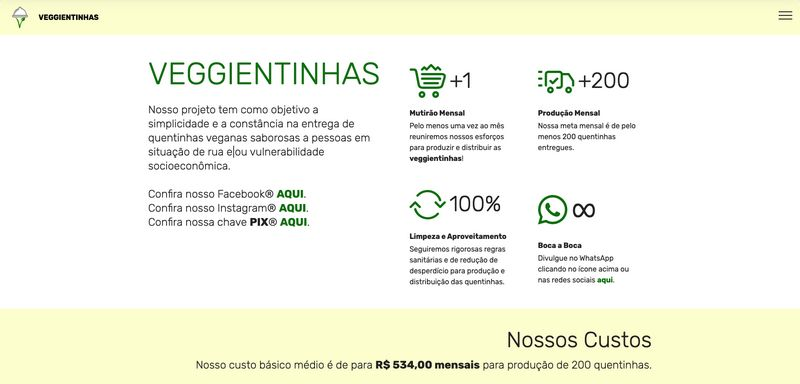
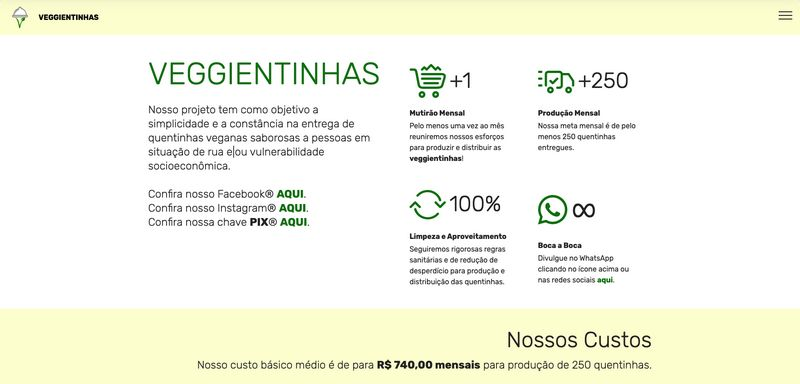
Add files via upload

Changed region(s): [[0.2188, 0.9375, 0.75, 0.9688], [0.75, 0.1875, 0.8125, 0.25], [0.7188, 0.3438, 0.75, 0.375]]

diff --git a/index.html b/index.html
@@ -69,7 +69,7 @@
     </nav>
 </section>
 
-<section class="engine"><a href="https://mobirise.info/a">online web builder</a></section><section class="counters2 counters cid-s34u2Y3aiS" id="counters2-2">
+<section class="engine"><a href="https://mobirise.info/o">portfolio site templates</a></section><section class="counters2 counters cid-s34u2Y3aiS" id="counters2-2">
 
     
 
@@ -101,13 +101,13 @@
                         <div class="panel-item p-3">
                             <div class="card-img pb-3">
                                 <a href="index.html#services3-3"><span class="mbr-iconfont pr-2 mbrib-delivery" style="color: rgb(5, 112, 3); fill: rgb(5, 112, 3);"></span></a>
-                                <h3 class="count py-3 mbr-fonts-style display-2">+200</h3>
+                                <h3 class="count py-3 mbr-fonts-style display-2">+250</h3>
                             </div>
                             <div class="card-text">
                                 <h4 class="mbr-content-title mbr-bold mbr-fonts-style display-7">
                                     Produção Mensal</h4>
                                 <p class="mbr-content-text mbr-fonts-style display-7">
-                                    Nossa meta mensal é de pelo menos 200 quentinhas entregues.</p>
+                                    Nossa meta mensal é de pelo menos 250 quentinhas entregues.</p>
                             </div>
                         </div>
                     </div>
@@ -157,7 +157,7 @@
             <div class="title pb-5 col-12">
                 <h2 class="align-left mbr-fonts-style display-2">
                     Nossos Custos</h2>
-                <h3 class="mbr-section-subtitle mbr-light mbr-fonts-style pt-3 m-0 display-5">Nosso custo básico médio é de para&nbsp;<strong>R$ 534,00 mensais</strong> para produção de 200 quentinhas.</h3>
+                <h3 class="mbr-section-subtitle mbr-light mbr-fonts-style pt-3 m-0 display-5">Nosso custo básico médio é de para&nbsp;<strong>R$ 740,00 mensais</strong> para produção de 250 quentinhas.</h3>
             </div>
             <!--Card-1-->
             <div class="card px-3 col-12 col-md-6">
@@ -165,10 +165,10 @@
                     <div class="card-box">
                         <div class="top-line pb-1">
                             <h4 class="card-title mbr-fonts-style display-5">Embalagens + Garfos<br></h4>
-                            <p class="mbr-text card-title cost mbr-fonts-style m-0 display-5">R$100</p>
+                            <p class="mbr-text card-title cost mbr-fonts-style m-0 display-5">R$230</p>
                         </div>
                         <div class="bottom-line">
-                            <p class="mbr-text mbr-fonts-style display-7">200 garfos de madeira reflorestável e 200 quentinhas de alumínio (750ml) com tampas de papelão</p>
+                            <p class="mbr-text mbr-fonts-style display-7">250 garfos de madeira reflorestável e 250 quentinhas de alumínio (750ml) com tampas de papelão</p>
                         </div>
                     </div>
                 </div>
@@ -195,7 +195,7 @@
                         <div class="top-line pb-3">
                             <h4 class="card-title mbr-fonts-style display-5">
                                 Arroz</h4>
-                            <p class="mbr-text card-title cost mbr-fonts-style m-0 display-5">R$70</p>
+                            <p class="mbr-text card-title cost mbr-fonts-style m-0 display-5">R$50</p>
                         </div>
                         <div class="bottom-line">
                             <p class="mbr-text mbr-fonts-style display-7">10 kg mensais</p>
@@ -210,10 +210,10 @@
                         <div class="top-line pb-3">
                             <h4 class="card-title mbr-fonts-style display-5">
                                 Proteína (soja | leguminosas)</h4>
-                            <p class="mbr-text card-title cost mbr-fonts-style m-0 display-5">R$40</p>
+                            <p class="mbr-text card-title cost mbr-fonts-style m-0 display-5">R$140</p>
                         </div>
                         <div class="bottom-line">
-                            <p class="mbr-text mbr-fonts-style display-7">06 kg mensais</p>
+                            <p class="mbr-text mbr-fonts-style display-7">08 kg mensais</p>
                         </div>
                     </div>
                 </div>
@@ -239,10 +239,10 @@
                     <div class="card-box">
                         <div class="top-line pb-3">
                             <h4 class="card-title mbr-fonts-style display-5">Couve | Salada | Vinagrete</h4>
-                            <p class="mbr-text card-title cost mbr-fonts-style m-0 display-5">R$36</p>
+                            <p class="mbr-text card-title cost mbr-fonts-style m-0 display-5">R$40</p>
                         </div>
                         <div class="bottom-line">
-                            <p class="mbr-text mbr-fonts-style display-7">04 | 06 kg mensais</p>
+                            <p class="mbr-text mbr-fonts-style display-7">06 | 10 kg mensais</p>
                         </div>
                     </div>
                 </div>
@@ -255,10 +255,10 @@
                             <h4 class="card-title mbr-fonts-style display-5">
                                 Água</h4>
                             <p class="mbr-text card-title cost mbr-fonts-style m-0 display-5">
-                                $168</p>
+                                $160</p>
                         </div>
                         <div class="bottom-line">
-                            <p class="mbr-text mbr-fonts-style display-7">200 copos ou 100 garrafas mensais</p>
+                            <p class="mbr-text mbr-fonts-style display-7">250 copos ou 250 garrafas mensais</p>
                         </div>
                     </div>
                 </div>
@@ -275,7 +275,7 @@
                         </div>
                         <div class="bottom-line">
                             <p class="mbr-text mbr-fonts-style display-7">
-                                08 kg mensais</p>
+                                09 kg mensais</p>
                         </div>
                     </div>
                 </div>
@@ -301,12 +301,12 @@
     <div class="container">
         <h2 class="mbr-section-title pb-3 align-center mbr-fonts-style display-2">Mutirões<br></h2>
 
-        <h3 class="mbr-section-subtitle mbr-fonts-style display-5"><strong>Próximo Mutirão de Veggientinhas | 27 de DEZEMBRO às 09h00 AM</strong></h3>
+        <h3 class="mbr-section-subtitle mbr-fonts-style display-5"><strong>Próximo Mutirão de Veggientinhas | 17 de JANEIRO às 09h00 AM</strong></h3>
 
         <div class="row pt-5 mt-5">
             <div class="col-md-6 text-elements">
-                <h4 class="section-content-title pb-3 align-left mbr-fonts-style display-5"><strong>Continue ajudando! Estamos arrecadando para o último mutirão de 2020!</strong><br></h4>
-                <p class="section-content-text align-left mbr-fonts-style display-7"><strong>PRÓXIMO MUTIRÃO:</strong><br><strong>DOMINGO, 27 de DEZEMBRO de 2020, ÀS 09h00 AM</strong><br><br>Para cada mutirão, precisamos de 08 a 12 pessoas na equipe, 40 a 50 kg de alimentos, 200 quentinhas de papelão e garfos feitos de <strong>madeira de reflorestamento</strong>. Isso tudo para organizar o preparo, cozinhar, montar as refeições e distribuir tudo.<br><br>Acompanhe nossos medidores mensais, sempre <strong>atualizados às segundas-feiras</strong>. Veja abaixo formas de nos ajudar a fechar nossa meta: contribuindo, doando recorrente e|ou compartilhando nossa página para todos os seus amigos. Obrigado!<br><br><strong>ACOMPANHE OS MARCADORES E NOS AJUDE A BATER A META</strong><br>Para saber mais sobre o mutirão passado, clique <a href="index.html#header7-2c"><strong>AQUI</strong></a>!<br><strong><br></strong><br></p>
+                <h4 class="section-content-title pb-3 align-left mbr-fonts-style display-5"><strong>Continue ajudando! Estamos arrecadando para o PRIMEIRO mutirão de 2021!</strong><br></h4>
+                <p class="section-content-text align-left mbr-fonts-style display-7"><strong>PRÓXIMO MUTIRÃO:</strong><br><strong>DOMINGO, 17 de JANEIRO de 2021, ÀS 09h00 AM</strong><br><br>Para cada mutirão, precisamos de 08 a 12 pessoas na equipe, 40 a 50 kg de alimentos, 250 quentinhas de <strong>papelão</strong> e garfos feitos de <strong>madeira de reflorestamento</strong>. Isso tudo para organizar o preparo, cozinhar, montar as refeições e distribuir tudo.<br><br>Acompanhe nossos medidores mensais, sempre <strong>atualizados às segundas-feiras</strong>. Veja abaixo formas de nos ajudar a fechar nossa meta: contribuindo, doando recorrente e|ou compartilhando nossa página para todos os seus amigos. Obrigado!<br><br><strong>ACOMPANHE OS MARCADORES E NOS AJUDE A BATER A META</strong><br>Para saber mais sobre o mutirão passado, clique <a href="index.html#header7-2c"><strong>AQUI</strong></a>!<br><strong><br></strong><br></p>
             </div>
             <div class="progress_elements col-md-6">
                 <div class="progress1 pb-5">
@@ -320,7 +320,7 @@
                             <span>%</span>
                         </div>
                     </div>
-                    <progress class="progress progress-primary " max="100" value="47">
+                    <progress class="progress progress-primary " max="100" value="24">
                     </progress>
                 </div>
                  
@@ -335,7 +335,7 @@
                         <span>%</span>
                     </div>
                     </div>
-                    <progress class="progress progress-primary" max="100" value="59">
+                    <progress class="progress progress-primary" max="100" value="79">
                     </progress>
                 </div>
                 
@@ -350,7 +350,7 @@
                         <span>%</span>
                     </div>
                     </div>
-                    <progress class="progress progress-primary" max="100" value="100">
+                    <progress class="progress progress-primary" max="100" value="85">
                     </progress>
                 </div>
                 
@@ -365,7 +365,7 @@
                         <span>%</span>
                     </div>
                     </div>
-                    <progress class="progress progress-primary" max="100" value="33">
+                    <progress class="progress progress-primary" max="100" value="69">
                     </progress>
                 </div>
             
@@ -442,7 +442,7 @@
                     <div class="plan-list align-center">
                         <ul class="list-group list-group-flush mbr-fonts-style display-7">
                             <li class="list-group-item">Você pode fazer uma doação espontânea, escolhendo a quantia desejada a ser doada, através do PIX.</li>
-                            <li class="list-group-item">Clique abaixo para ser redirecionado para a nossa chave PIX!</li>
+                            <li class="list-group-item">Clique abaixo para ser redirecionade para a nossa chave PIX!</li>
                         </ul>
                     </div>
                     <div class="mbr-section-btn text-center py-4 pb-5"><a href="doacoes.html" class="btn btn-primary display-4">CHAVE PIX</a></div>
@@ -463,7 +463,7 @@
                 <div class="plan-body">
                     <div class="plan-list align-center">
                         <ul class="list-group list-group-flush mbr-fonts-style display-7">
-                            <li class="list-group-item">Você pode se tornar apoiadore mensal recorrente escolhendo a quantia desejada a ser doada todo mês.&nbsp;</li>
+                            <li class="list-group-item">Você pode se tornar um apoiador mensal recorrente escolhendo a quantia desejada a ser doada todo mês.&nbsp;</li>
                             <li class="list-group-item">Clique abaixo para ser redirecionade para o Mercado Pago®</li>
                         </ul>
                     </div>
@@ -486,14 +486,14 @@
 
             <div class="media-content align-right">
                 <h1 class="mbr-section-title mbr-white pb-3 mbr-fonts-style display-5"><strong>
-                    Último Mutirão | 13 de Dezembro</strong></h1>
+                    Último Mutirão | 27 de Dezembro</strong></h1>
                 <div class="mbr-section-text mbr-white pb-3">
-                    <p class="mbr-text mbr-fonts-style display-7">Obrigado a todes que doaram e|ou participaram da ação. Se você quer participar da ação ou levar esse projeto para sua região, clique nos botões abaixo e preencha o formulário. Aguardamos todos vocês dia <a href="index.html#progress-bars2-4"><strong>27 de DEZEMBRO</strong></a>!&nbsp;</p>
+                    <p class="mbr-text mbr-fonts-style display-7">Obrigado a todes que doaram e|ou participaram da ação. Se você quer participar da ação ou levar esse projeto para sua região, clique nos botões abaixo e preencha o formulário. Aguardamos todos vocês dia <a href="index.html#progress-bars2-4"><strong>17 de JANEIRO</strong></a>!&nbsp;</p>
                 </div>
                 <div class="mbr-section-btn"><a class="btn btn-md btn-primary display-4" href="https://forms.gle/uzzZ87Ug8hGT89Dp7" target="_blank">FAZER PARTE</a> <a class="btn btn-md btn-primary display-4" href="https://forms.gle/tiocH2Sxn1ndUULHA" target="_blank">LEVAR PRO MEU BAIRRO</a></div>
             </div>
 
-            <div class="mbr-figure" style="width: 80%;"><iframe class="mbr-embedded-video" src="https://player.vimeo.com/video/474493931?autoplay=1&amp;loop=1" width="1280" height="720" frameborder="0" allowfullscreen></iframe></div>
+            <div class="mbr-figure" style="width: 80%;"><iframe class="mbr-embedded-video" src="https://player.vimeo.com/video/495202864?autoplay=1&amp;loop=1" width="1280" height="720" frameborder="0" allowfullscreen></iframe></div>
 
         </div>
     </div>
@@ -516,13 +516,13 @@
                             <div class="card-header" role="tab" id="headingOne">
                                 <a role="button" class="collapsed panel-title text-black" data-toggle="collapse" data-core="" href="#collapse1_6" aria-expanded="false" aria-controls="collapse1">
                                     <h4 class="mbr-fonts-style display-5">
-                                        <span class="sign mbr-iconfont mbri-arrow-down inactive"></span>13 Voluntáries</h4>
+                                        <span class="sign mbr-iconfont mbri-arrow-down inactive"></span>16 Voluntáries</h4>
                                 </a>
                             </div>
                             <div id="collapse1_6" class="panel-collapse noScroll collapse" role="tabpanel" aria-labelledby="headingOne">
                                 <div class="panel-body p-4">
                                     <p class="mbr-fonts-style panel-text display-7">
-                                       Nos dividimos em horários e turnos, para evitar aglomeração: 05 voluntáries prepararam a comida, 02 ajudaram na limpeza, 06 montaram as quentinhas e distribuiram, dividos em turnos. Para se tornar um voluntário, preencha o formulário <a href="https://forms.gle/uzzZ87Ug8hGT89Dp7" target="_blank"><strong>aqui</strong></a>.</p>
+                                       Nos dividimos em horários e turnos, para evitar aglomeração: 06 voluntáries prepararam a comida, 02 ajudaram na limpeza, 08 montaram as quentinhas e distribuiram, dividos em turnos. Para se tornar um voluntário, preencha o formulário <a href="https://forms.gle/uzzZ87Ug8hGT89Dp7" target="_blank"><strong>aqui</strong></a>.</p>
                                 </div>
                             </div>
                         </div>
@@ -530,14 +530,14 @@
                             <div class="card-header" role="tab" id="headingTwo">
                                 <a role="button" class="collapsed panel-title text-black" data-toggle="collapse" data-core="" href="#collapse2_6" aria-expanded="false" aria-controls="collapse2">
                                     <h4 class="mbr-fonts-style display-5">
-                                        <span class="sign mbr-iconfont mbri-arrow-down inactive"></span>&nbsp;07 Doações</h4>
+                                        <span class="sign mbr-iconfont mbri-arrow-down inactive"></span>&nbsp;13 Doações</h4>
                                 </a>
 
                             </div>
                             <div id="collapse2_6" class="panel-collapse noScroll collapse" role="tabpanel" aria-labelledby="headingTwo">
                                 <div class="panel-body p-4">
                                     <p class="mbr-fonts-style panel-text display-7">
-                                       Tivemos <strong>04&nbsp;</strong>doações <strong>via PIX</strong>&nbsp;e <strong>03</strong>&nbsp;doações <strong>recorrentes mensais</strong> que já ajudarão nosso próximo mutirão, dia 27 de dezembro. Para ser um doador, clique <a href="index.html#pricing-tables2-b"><strong>aqui</strong></a>.</p>
+                                       Tivemos <strong>07&nbsp;</strong>doações <strong>via PIX</strong>&nbsp;e <strong>03</strong>&nbsp;doações <strong>recorrentes mensais</strong>&nbsp;e <strong>03</strong> doações <strong>únicas</strong> que já ajudarão nosso próximo mutirão, dia 17 de janeiro. Para ser um doador, clique <a href="index.html#pricing-tables2-b"><strong>aqui</strong></a>.</p>
                                 </div>
                             </div>
                         </div>
@@ -545,12 +545,12 @@
                             <div class="card-header" role="tab" id="headingThree">
                                 <a role="button" class="collapsed panel-title text-black" data-toggle="collapse" data-core="" href="#collapse3_6" aria-expanded="false" aria-controls="collapse3">
                                     <h4 class="mbr-fonts-style display-5">
-                                        <span class="sign mbr-iconfont mbri-arrow-down inactive"></span>300 Refeições</h4>
+                                        <span class="sign mbr-iconfont mbri-arrow-down inactive"></span>250 Refeições</h4>
                                 </a>
                             </div>
                             <div id="collapse3_6" class="panel-collapse noScroll collapse" role="tabpanel" aria-labelledby="headingThree">
                                 <div class="panel-body p-4">
-                                    <p class="mbr-fonts-style panel-text display-7">Preparamos em <strong>04 horas</strong> e distribuímos, em <strong>1 hora</strong> e <strong>10 minutos</strong>, todas as <strong>300 veggientinhas</strong> para pessoas em situação de rua.</p>
+                                    <p class="mbr-fonts-style panel-text display-7">Preparamos em <strong>03 horas</strong> e distribuímos, em <strong>1 hora</strong> e <strong>10 minutos</strong>, todas as <strong>250 veggientinhas</strong> para pessoas em situação de rua.</p>
                                 </div>
                             </div>
                         </div>
@@ -693,7 +693,7 @@
         <div class="row justify-content-center">
             <div class="media-container-column col-lg-8" data-form-type="formoid">
                 <!---Formbuilder Form--->
[2 lines of base64/hex data omitted]
                     <div class="row">
                         <div hidden="hidden" data-form-alert="" class="alert alert-success col-12">Sua mensagem foi enviada.
 Agradecemos seu contato!</div>

diff --git a/solicitacoes.html b/solicitacoes.html
@@ -49,7 +49,7 @@
         <div class="row justify-content-center">
             <div class="media-container-column col-lg-8" data-form-type="formoid">
                 <!---Formbuilder Form--->
[2 lines of base64/hex data omitted]
                     <div class="row">
                         <div hidden="hidden" data-form-alert="" class="alert alert-success col-12">Obrigado! Nos empenharemos em atender esta demanda.</div>
                         <div hidden="hidden" data-form-alert-danger="" class="alert alert-danger col-12">
@@ -77,7 +77,7 @@
     </div>
 </section>
 
-<section class="engine"><a href="https://mobirise.info/e">how to make your own website</a></section><section class="menu cid-sf8Gh9PFAD" once="menu" id="menu2-2o">
+<section class="engine"><a href="https://mobirise.info/g">build a website</a></section><section class="menu cid-sf8Gh9PFAD" once="menu" id="menu2-2o">
 
     
 

diff --git a/aprovado.html b/aprovado.html
@@ -69,7 +69,7 @@ Agradecemos de coração a sua contribuição!">
     </nav>
 </section>
 
-<section class="engine"><a href="https://mobirise.info/g">how to build a website for free</a></section><section class="counters2 counters cid-s35aay7TLC" id="counters2-d">
+<section class="engine"><a href="https://mobirise.info/u">bootstrap responsive templates</a></section><section class="counters2 counters cid-s35aay7TLC" id="counters2-d">
 
     
 

diff --git a/contatos.html b/contatos.html
@@ -68,7 +68,7 @@
     </nav>
 </section>
 
-<section class="engine"><a href="https://mobirise.info/f">easy web creator</a></section><section class="mbr-section contacts3 cid-sfM7fevBIe" id="contacts3-2y">
+<section class="engine"><a href="https://mobirise.info/c">free website builder</a></section><section class="mbr-section contacts3 cid-sfM7fevBIe" id="contacts3-2y">
     <!---->
     
     <!---->

diff --git a/processando.html b/processando.html
@@ -69,7 +69,7 @@ Agradecemos sua disponibilidade!">
     </nav>
 </section>
 
-<section class="engine"><a href="https://mobirise.info/t">amp template</a></section><section class="counters2 counters cid-s35jZpjvFy" id="counters2-1d">
+<section class="engine"><a href="https://mobirise.info/j">website templates</a></section><section class="counters2 counters cid-s35jZpjvFy" id="counters2-1d">
 
     
 

diff --git a/apoiador.html b/apoiador.html
@@ -68,7 +68,7 @@
     </nav>
 </section>
 
-<section class="engine"><a href="https://mobirise.info/c">web builder</a></section><section class="counters2 counters cid-s35kyMxh1c" id="counters2-1h">
+<section class="engine"><a href="https://mobirise.info/j">website templates</a></section><section class="counters2 counters cid-s35kyMxh1c" id="counters2-1h">
 
     
 

diff --git a/doacoes.html b/doacoes.html
@@ -67,7 +67,7 @@
     </nav>
 </section>
 
-<section class="engine"><a href="https://mobirise.info/z">best free html templates</a></section><section class="header1 cid-sf8JvFE1dh" id="header16-2s">
+<section class="engine"><a href="https://mobirise.info/a">online web builder</a></section><section class="header1 cid-sf8JvFE1dh" id="header16-2s">
 
     
 

diff --git a/participe.html b/participe.html
@@ -69,7 +69,7 @@
     </nav>
 </section>
 
-<section class="engine"><a href="https://mobirise.info/c">website builder</a></section><section class="header1 cid-sfQZVO0xX5" id="header16-3a">
+<section class="engine"><a href="https://mobirise.info">Mobirise</a></section><section class="header1 cid-sfQZVO0xX5" id="header16-3a">
 
     
 
